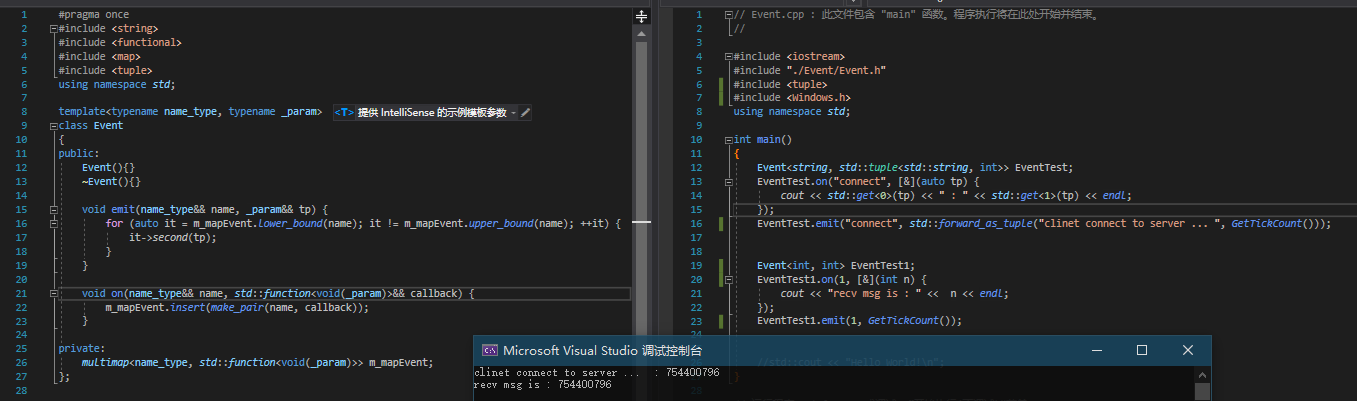
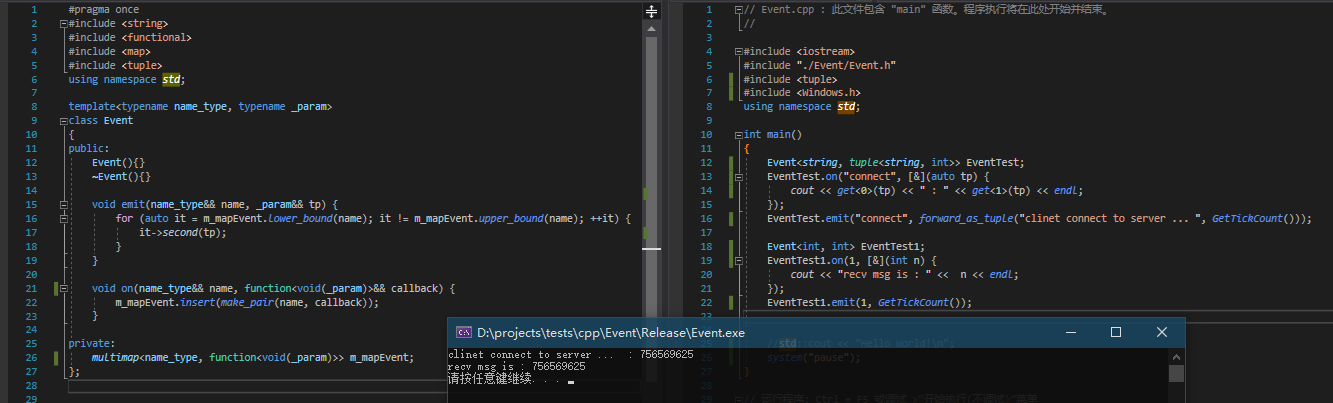
统一写法

Changed region(s): [[0.0, 0.0, 1.0, 1.0], [0.892, 0.7481, 1.0, 0.7781], [0.0615, 0.5985, 0.0923, 0.6584]]

diff --git a/Event/Event.h b/Event/Event.h
@@ -18,11 +18,11 @@ public:
 		}
 	}
 
-	void on(name_type&& name, std::function<void(_param)>&& callback) {
+	void on(name_type&& name, function<void(_param)>&& callback) {
 		m_mapEvent.insert(make_pair(name, callback));
 	}
 
 private:
-	multimap<name_type, std::function<void(_param)>> m_mapEvent;
+	multimap<name_type, function<void(_param)>> m_mapEvent;
 };
 
